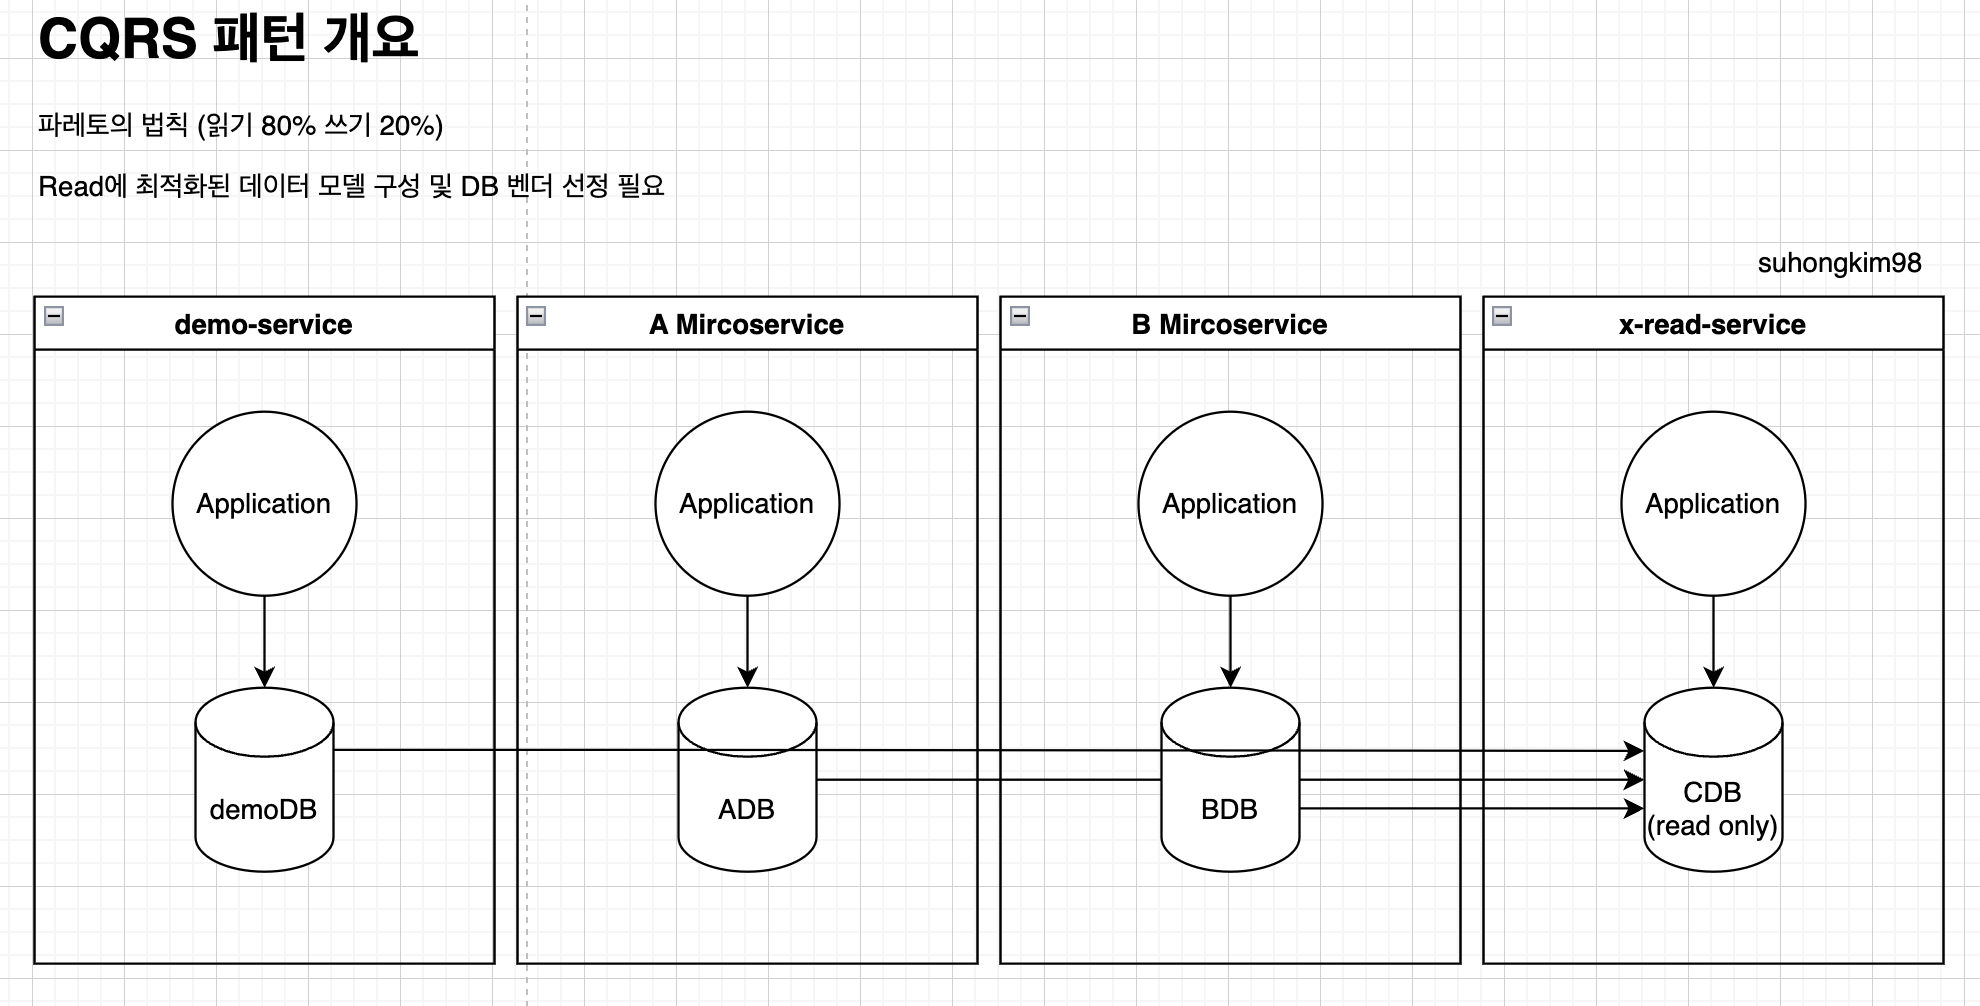
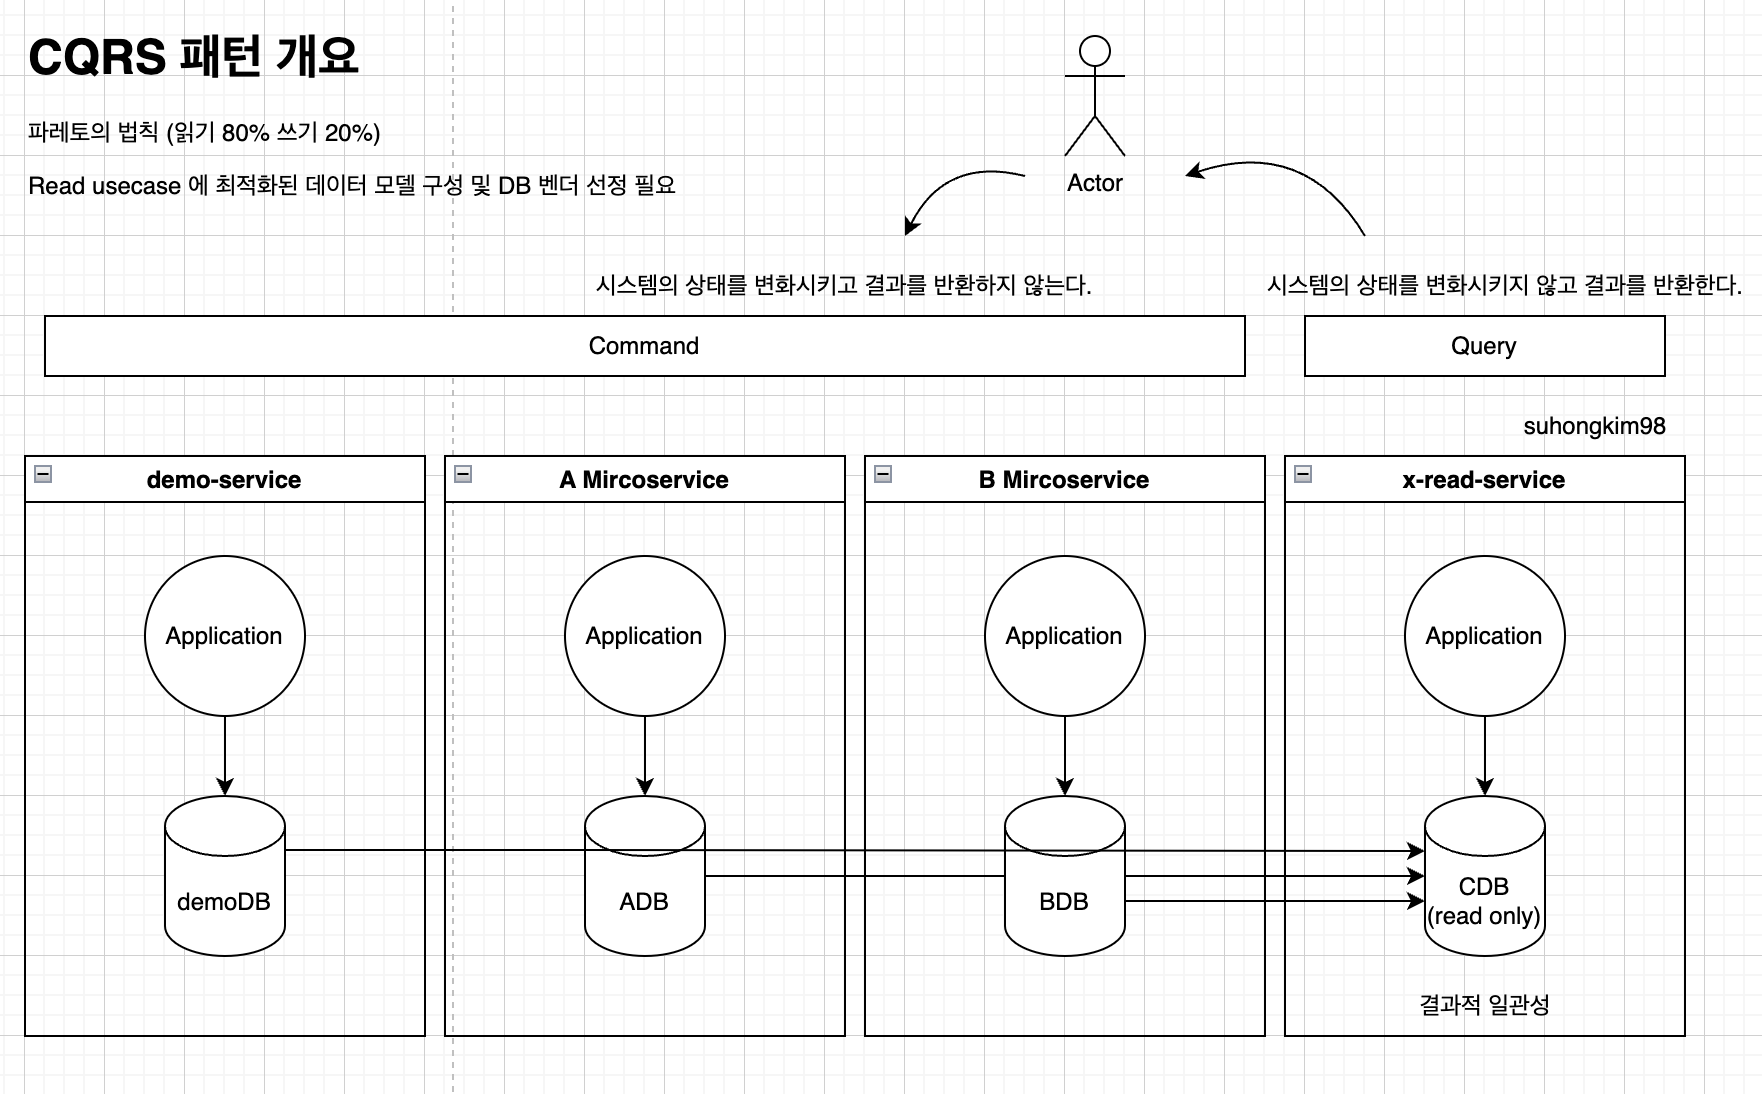
동기화 구현
- source connector SMT 옵션 수정
- board 동기화 구현
- boardContent 동기화 구현
- 동기화된 Board 조회 구현

diff --git a/x-read-service/src/main/java/com/example/mysql/kafka/connect/xread/board/application/BoardService.java b/x-read-service/src/main/java/com/example/mysql/kafka/connect/xread/board/application/BoardService.java
@@ -1,0 +1,59 @@
+package com.example.mysql.kafka.connect.xread.board.application;
+
+import com.example.mysql.kafka.connect.xread.board.application.dto.ConsumedBoardContentDto;
+import com.example.mysql.kafka.connect.xread.board.application.dto.ConsumedBoardDto;
+import com.example.mysql.kafka.connect.xread.board.application.dto.GetBoardResponseDto;
+import com.example.mysql.kafka.connect.xread.board.domain.BoardRepository;
+import com.example.mysql.kafka.connect.xread.global.asset.DataChangedOperation;
+import lombok.RequiredArgsConstructor;
+import lombok.extern.slf4j.Slf4j;
+import org.springframework.stereotype.Service;
+
+@Slf4j
+@Service
+@RequiredArgsConstructor
+public class BoardService {
+
+    private final BoardRepository boardRepository;
+
+    public void sync(ConsumedBoardDto consumedBoardDto) {
+        DataChangedOperation operation = DataChangedOperation.from(consumedBoardDto.op());
+        switch (operation) {
+            case CREATED, UPDATED -> {
+                Long boardId = boardRepository.upsertBoard(consumedBoardDto.boardId(), consumedBoardDto.userId(),
+                        consumedBoardDto.title());
+
+                log.info(boardId + " board created or updated");
+            }
+            case DELETED -> {
+                boardRepository.deleteById(consumedBoardDto.boardId());
+                log.info(consumedBoardDto.boardId() + " board deleted");
+            }
+        }
+    }
+
+    public void sync(ConsumedBoardContentDto consumedBoardContentDto) {
+        DataChangedOperation operation = DataChangedOperation.from(consumedBoardContentDto.op());
+        switch (operation) {
+            case CREATED, UPDATED -> {
+                boardRepository.updateBoardContent(consumedBoardContentDto.boardId(),
+                        consumedBoardContentDto.boardContentId(), consumedBoardContentDto.content(), true);
+                log.info("board content created or updated");
+            }
+            case DELETED -> {
+                boardRepository.updateBoardContent(consumedBoardContentDto.boardId(), null, null,
+                        false);
+                log.info("board content deleted");
+            }
+        }
+    }
+
+    /**
+     * Mongo에 동기화된 Board 를 반환
+     */
+    public GetBoardResponseDto getBoard(Long boardId) {
+        return boardRepository.findById(boardId)
+                .map(GetBoardResponseDto::from)
+                .orElseThrow(() -> new RuntimeException("not found board"));
+    }
+}

diff --git a/x-read-service/src/main/java/com/example/mysql/kafka/connect/xread/board/presentation/BoardSyncConsumer.java b/x-read-service/src/main/java/com/example/mysql/kafka/connect/xread/board/presentation/BoardSyncConsumer.java
@@ -1,0 +1,52 @@
+package com.example.mysql.kafka.connect.xread.board.presentation;
+
+import com.example.mysql.kafka.connect.xread.board.application.BoardService;
+import com.example.mysql.kafka.connect.xread.board.application.dto.ConsumedBoardContentDto;
+import com.example.mysql.kafka.connect.xread.board.application.dto.ConsumedBoardDto;
+import com.fasterxml.jackson.core.type.TypeReference;
+import com.fasterxml.jackson.databind.ObjectMapper;
+import lombok.RequiredArgsConstructor;
+import org.apache.avro.generic.GenericRecord;
+import org.apache.kafka.clients.consumer.ConsumerRecord;
+import org.springframework.kafka.annotation.KafkaListener;
+import org.springframework.stereotype.Component;
+
+/**
+ * rdb의 board, boardContent -> readdb mongo의 board 하나로 동기화
+ */
+@Component
+@RequiredArgsConstructor
+public class BoardSyncConsumer {
+
+    private final BoardService boardService;
+    private final ObjectMapper objectMapper;
+
+    /**
+     * RDB Board -> mongo(readdb) Board 동기화
+     * 동기화 키: 동기화 키: boardId
+     */
+    @KafkaListener(topics = "source-mysqldb.demodb.board")
+    private void consumeBoardChangeEvent(ConsumerRecord<GenericRecord, GenericRecord> record)  {
+        try {
+            ConsumedBoardDto boardDto = objectMapper.readValue(String.valueOf(record.value()), new TypeReference<>() {});
+            boardService.sync(boardDto);
+        } catch (Exception e) {
+            // 재처리 프로세스
+        }
+    }
+
+    /**
+     * RDB BoardContent -> mongo(readdb) Board 동기화
+     * 동기화 키: boardId
+     */
+    @KafkaListener(topics = "source-mysqldb.demodb.board_content")
+    private void consumeBoardContentChangeEvent(ConsumerRecord<GenericRecord, GenericRecord> record) {
+        try {
+            ConsumedBoardContentDto boardContentDto = objectMapper.readValue(String.valueOf(record.value()),
+                    new TypeReference<>() {});
+            boardService.sync(boardContentDto);
+        } catch (Exception e) {
+            // 재처리 프로세스
+        }
+    }
+}

diff --git a/x-read-service/src/main/java/com/example/mysql/kafka/connect/xread/board/infrastructure/repository/BoardRepositoryImpl.java b/x-read-service/src/main/java/com/example/mysql/kafka/connect/xread/board/infrastructure/repository/BoardRepositoryImpl.java
@@ -1,0 +1,42 @@
+package com.example.mysql.kafka.connect.xread.board.infrastructure.repository;
+
+import com.example.mysql.kafka.connect.xread.board.domain.Board;
+import com.example.mysql.kafka.connect.xread.board.domain.BoardCustomRepository;
+import lombok.RequiredArgsConstructor;
+import org.springframework.data.mongodb.core.MongoTemplate;
+import org.springframework.data.mongodb.core.query.Criteria;
+import org.springframework.data.mongodb.core.query.Query;
+import org.springframework.data.mongodb.core.query.Update;
+import org.springframework.stereotype.Repository;
+
+@Repository
+@RequiredArgsConstructor
+public class BoardRepositoryImpl implements BoardCustomRepository {
+
+    private final MongoTemplate mongoTemplate;
+
+    @Override
+    public Long upsertBoard(Long boardId, Long userId, String title) {
+        Query query = new Query(Criteria.where("boardId").is(boardId));
+        Update update = new Update();
+        update.set("userId", userId);
+        update.set("title", title);
+
+        mongoTemplate.upsert(query, update, Board.class);
+        return boardId;
+    }
+
+    @Override
+    public void updateBoardContent(Long boardId, Long boardContentId, String content, boolean isUpsert) {
+        Query query = new Query(Criteria.where("boardId").is(boardId));
+        Update update = new Update();
+        update.set("boardContentId", boardContentId);
+        update.set("content", content);
+
+        if (isUpsert) {
+            mongoTemplate.upsert(query, update, Board.class);
+        } else {
+            mongoTemplate.updateFirst(query, update, Board.class);
+        }
+    }
+}

diff --git a/x-read-service/src/main/java/com/example/mysql/kafka/connect/xread/board/presentation/BoardController.java b/x-read-service/src/main/java/com/example/mysql/kafka/connect/xread/board/presentation/BoardController.java
@@ -1,0 +1,22 @@
+package com.example.mysql.kafka.connect.xread.board.presentation;
+
+import com.example.mysql.kafka.connect.xread.board.application.BoardService;
+import com.example.mysql.kafka.connect.xread.board.application.dto.GetBoardResponseDto;
+import lombok.RequiredArgsConstructor;
+import org.springframework.web.bind.annotation.GetMapping;
+import org.springframework.web.bind.annotation.PathVariable;
+import org.springframework.web.bind.annotation.RequestMapping;
+import org.springframework.web.bind.annotation.RestController;
+
+@RestController
+@RequiredArgsConstructor
+@RequestMapping("/api/v1/boards")
+public class BoardController {
+
+    private final BoardService boardService;
+
+    @GetMapping("/{boardId}")
+    public GetBoardResponseDto getBoard(@PathVariable("boardId") Long boardId) {
+        return boardService.getBoard(boardId);
+    }
+}

diff --git a/x-read-service/src/main/java/com/example/mysql/kafka/connect/xread/board/application/dto/GetBoardResponseDto.java b/x-read-service/src/main/java/com/example/mysql/kafka/connect/xread/board/application/dto/GetBoardResponseDto.java
@@ -1,0 +1,22 @@
+package com.example.mysql.kafka.connect.xread.board.application.dto;
+
+import com.example.mysql.kafka.connect.xread.board.domain.Board;
+import lombok.Builder;
+
+@Builder
+public record GetBoardResponseDto(Long boardId,
+                                  Long userId,
+                                  Long boardContentId,
+                                  String title,
+                                  String content) {
+
+    public static GetBoardResponseDto from(Board board) {
+        return GetBoardResponseDto.builder()
+                .boardId(board.getBoardId())
+                .userId(board.getUserId())
+                .boardContentId(board.getBoardContentId())
+                .title(board.getTitle())
+                .content(board.getContent())
+                .build();
+    }
+}

diff --git a/x-read-service/src/main/java/com/example/mysql/kafka/connect/xread/board/application/dto/ConsumedBoardContentDto.java b/x-read-service/src/main/java/com/example/mysql/kafka/connect/xread/board/application/dto/ConsumedBoardContentDto.java
@@ -1,0 +1,14 @@
+package com.example.mysql.kafka.connect.xread.board.application.dto;
+
+import com.fasterxml.jackson.annotation.JsonIgnoreProperties;
+import com.fasterxml.jackson.annotation.JsonInclude;
+import com.fasterxml.jackson.annotation.JsonProperty;
+
+@JsonInclude(JsonInclude.Include.NON_NULL)
+@JsonIgnoreProperties(ignoreUnknown = true)
+public record ConsumedBoardContentDto(@JsonProperty("board_content_id") Long boardContentId,
+                                      @JsonProperty("board_id") Long boardId,
+                                      @JsonProperty("content") String content,
+                                      @JsonProperty("__op") char op,
+                                      @JsonProperty("__deleted") boolean deleted) {
+}

diff --git a/x-read-service/src/main/java/com/example/mysql/kafka/connect/xread/board/application/dto/ConsumedBoardDto.java b/x-read-service/src/main/java/com/example/mysql/kafka/connect/xread/board/application/dto/ConsumedBoardDto.java
@@ -1,0 +1,14 @@
+package com.example.mysql.kafka.connect.xread.board.application.dto;
+
+import com.fasterxml.jackson.annotation.JsonIgnoreProperties;
+import com.fasterxml.jackson.annotation.JsonInclude;
+import com.fasterxml.jackson.annotation.JsonProperty;
+
+@JsonInclude(JsonInclude.Include.NON_NULL)
+@JsonIgnoreProperties(ignoreUnknown = true)
+public record ConsumedBoardDto(@JsonProperty("board_id") Long boardId,
+                               @JsonProperty("user_id") Long userId,
+                               @JsonProperty("title") String title,
+                               @JsonProperty("__op") char op,
+                               @JsonProperty("__deleted") boolean deleted) {
+}

diff --git a/x-read-service/src/main/java/com/example/mysql/kafka/connect/xread/global/asset/DataChangedOperation.java b/x-read-service/src/main/java/com/example/mysql/kafka/connect/xread/global/asset/DataChangedOperation.java
@@ -1,0 +1,24 @@
+package com.example.mysql.kafka.connect.xread.global.asset;
+
+import lombok.AllArgsConstructor;
+
+@AllArgsConstructor
+public enum DataChangedOperation {
+
+    CREATED('c'),
+    UPDATED('u'),
+    DELETED('d'),
+    ;
+
+    private final char code;
+
+    public static DataChangedOperation from(char code) {
+        for (var item : DataChangedOperation.values()) {
+            if (item.code == code) {
+                return item;
+            }
+        }
+
+        throw new IllegalArgumentException();
+    }
+}

diff --git a/x-read-service/src/main/java/com/example/mysql/kafka/connect/xread/board/domain/Board.java b/x-read-service/src/main/java/com/example/mysql/kafka/connect/xread/board/domain/Board.java
@@ -1,0 +1,17 @@
+package com.example.mysql.kafka.connect.xread.board.domain;
+
+import lombok.Getter;
+import org.springframework.data.annotation.Id;
+import org.springframework.data.mongodb.core.mapping.Document;
+
+@Getter
+@Document
+public class Board {
+
+    @Id
+    private Long boardId;
+    private Long userId;
+    private Long boardContentId;
+    private String title;
+    private String content;
+}

diff --git a/x-read-service/src/main/java/com/example/mysql/kafka/connect/xread/board/domain/BoardCustomRepository.java b/x-read-service/src/main/java/com/example/mysql/kafka/connect/xread/board/domain/BoardCustomRepository.java
@@ -1,0 +1,8 @@
+package com.example.mysql.kafka.connect.xread.board.domain;
+
+public interface BoardCustomRepository {
+
+    Long upsertBoard(Long boardId, Long userId, String title);
+
+    void updateBoardContent(Long boardId, Long boardContentId, String content, boolean isUpsert);
+}

diff --git a/x-read-service/src/main/java/com/example/mysql/kafka/connect/xread/board/domain/BoardRepository.java b/x-read-service/src/main/java/com/example/mysql/kafka/connect/xread/board/domain/BoardRepository.java
@@ -1,0 +1,7 @@
+package com.example.mysql.kafka.connect.xread.board.domain;
+
+import org.springframework.data.mongodb.repository.MongoRepository;
+
+public interface BoardRepository extends MongoRepository<Board, Long>, BoardCustomRepository {
+
+}

diff --git a/README.md b/README.md
@@ -1,6 +1,7 @@
 # mysql-kafka-connect-study
 ![arch-overview.png](docs%2Farch-overview.png)
-가볍게 `mysql` source connector 학습하기
+가볍게 `mysql` source connector 학습하고 부하테스트까지 해보기
+
 # 아키텍처
 ![arch-detail.png](docs%2Farch-detail.png)
 
@@ -18,7 +19,7 @@
 * `boardId`를 기준으로 게시판을 삭제한다. (O)
 * 게시판을 전체 삭제할 수 있다. (O)
 * `Transactional Outbox Pattern(transation log tailing)`을 이용해 게시판 CUD 이벤트를 발행 및 보장한다. (O)
-* 데이터 변경 이벤트를 구독하여 NoSQL 형태의 readDB에 동기화를 한다.(`CQRS 패턴`) (-)
+* 데이터 변경 이벤트를 구독하여 NoSQL 형태의 readDB에 동기화를 한다.(`CQRS 패턴`) (O)
 
 # 시작하기
 ## 로컬 인프라 구축
